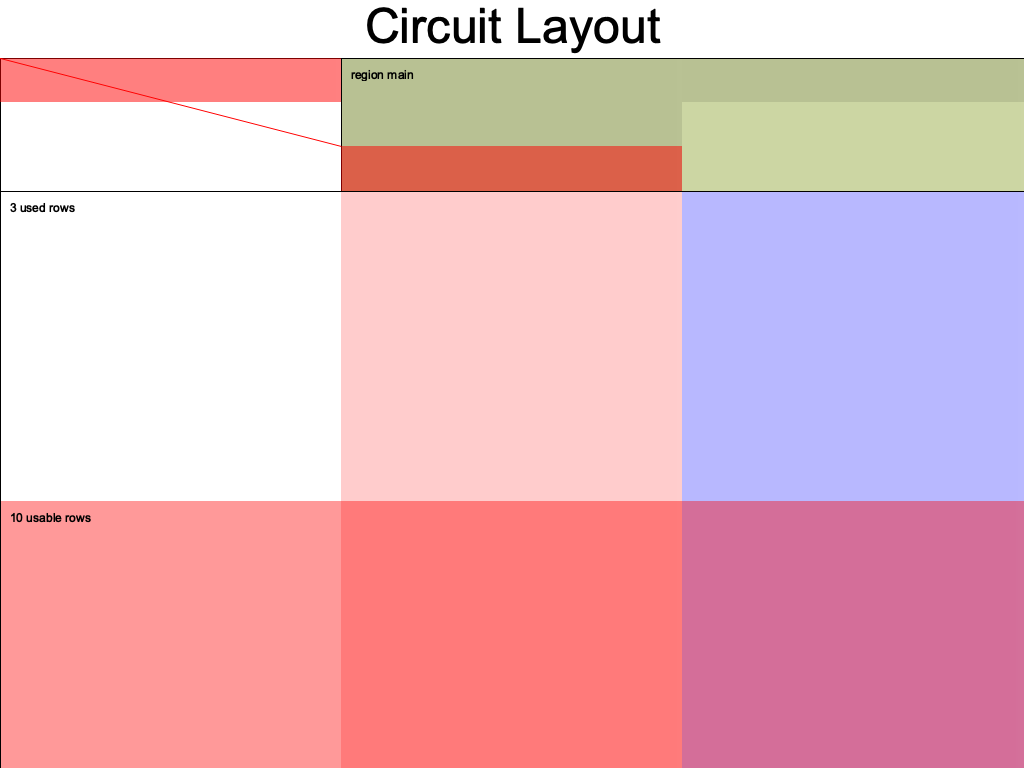
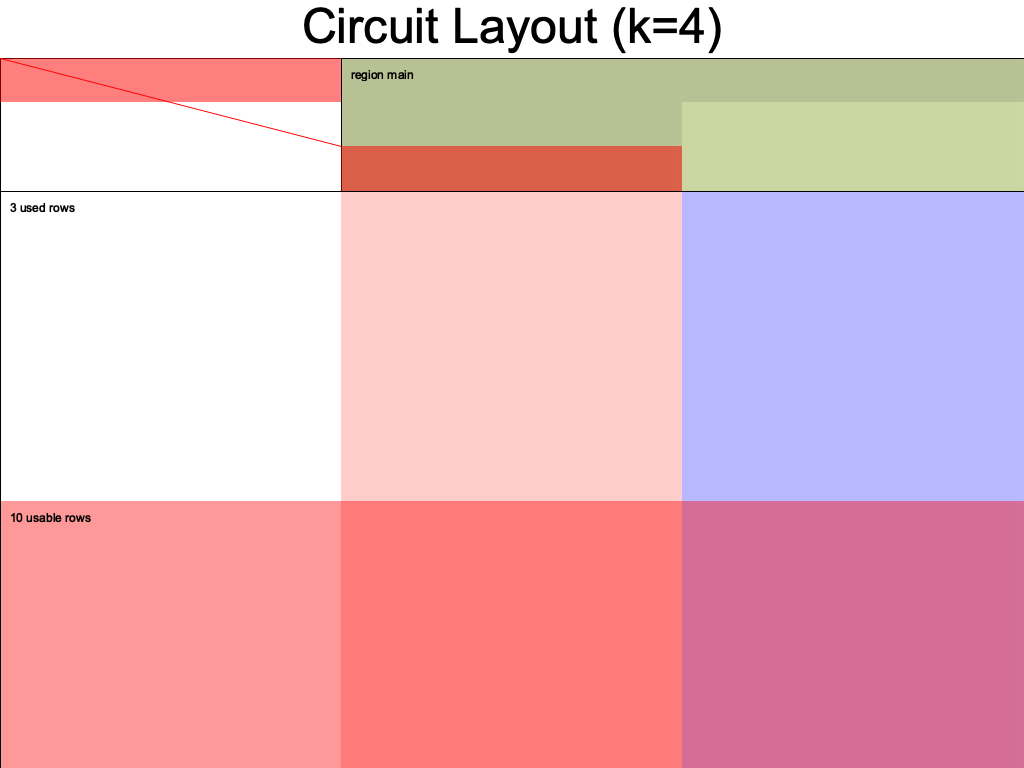
Auto derive value of k

Changed region(s): [[0.2812, 0.0, 0.7188, 0.0625]]

diff --git a/src/printer.rs b/src/printer.rs
@@ -3,6 +3,8 @@ use std::marker::PhantomData;
 use halo2_proofs::{arithmetic::Field, dev::CircuitLayout, plonk::Circuit};
 use plotters::prelude::*;
 
+use crate::utils::derive_k;
+
 pub struct Printer<'a, F: Field, ConcreteCircuit: Circuit<F>> {
     // main params
     _k: u32,
@@ -20,10 +22,10 @@ pub struct Printer<'a, F: Field, ConcreteCircuit: Circuit<F>> {
 }
 
 impl<'a, F: Field, ConcreteCircuit: Circuit<F>> Printer<'a, F, ConcreteCircuit> {
-    pub fn from(k: u32, circuit: &'a ConcreteCircuit) -> Self {
+    pub fn from(circuit: &'a ConcreteCircuit) -> Self {
         // let root = BitMapBackend::new("simple-example-layout.png", (1024, 768)).into_drawing_area();
         Self {
-            _k: k,
+            _k: derive_k::<F, ConcreteCircuit>(),
             _circuit: circuit,
             _layout: CircuitLayout::default()
                 .mark_equality_cells(true)
@@ -41,7 +43,12 @@ impl<'a, F: Field, ConcreteCircuit: Circuit<F>> Printer<'a, F, ConcreteCircuit> 
     pub fn print(self) {
         let root = BitMapBackend::new(self._path, self._dimensions).into_drawing_area();
         root.fill(&WHITE).unwrap();
-        let root = root.titled(self._title, ("sans-serif", 60)).unwrap();
+        let root = root
+            .titled(
+                format!("{} (k={})", self._title, self._k).as_str(),
+                ("sans-serif", 60),
+            )
+            .unwrap();
 
         self._layout.render(self._k, self._circuit, &root).unwrap();
     }
@@ -95,6 +102,6 @@ mod tests {
     #[test]
     fn it_works() {
         let circuit = MyCircuit::<Fr>::default();
-        Printer::from(4, &circuit).print();
+        Printer::from(&circuit).print();
     }
 }

diff --git a/src/real_prover.rs b/src/real_prover.rs
@@ -19,11 +19,13 @@ use std::{
     str::FromStr,
 };
 
+use crate::derive_k;
+
 #[derive(Clone)]
 pub struct RealProver<'a, ConcreteCircuit: Circuit<Fr>> {
     name: &'a str,
-    degree: u32,
     circuit: ConcreteCircuit,
+    degree: u32,
     dir_path: PathBuf,
     serde_format: SerdeFormat,
     rng: ChaCha20Rng,
@@ -34,11 +36,11 @@ pub struct RealProver<'a, ConcreteCircuit: Circuit<Fr>> {
 }
 
 impl<'a, ConcreteCircuit: Circuit<Fr>> RealProver<'a, ConcreteCircuit> {
-    pub fn init(name: &'a str, degree: u32, circuit: ConcreteCircuit) -> Self {
+    pub fn init(name: &'a str, circuit: ConcreteCircuit) -> Self {
         Self {
             name,
-            degree,
             circuit,
+            degree: derive_k::<Fr, ConcreteCircuit>(),
             dir_path: PathBuf::from_str("./out").unwrap(),
             serde_format: SerdeFormat::RawBytes,
             rng: ChaChaRng::seed_from_u64(2),
@@ -87,6 +89,11 @@ impl<'a, ConcreteCircuit: Circuit<Fr>> RealProver<'a, ConcreteCircuit> {
             file.write(proof.as_slice())?;
         }
         Ok(proof)
+    }
+
+    pub fn degree(mut self, k: u32) -> Self {
+        self.degree = k;
+        self
     }
 
     fn set_general_params(
@@ -256,7 +263,7 @@ mod tests {
     #[test]
     fn it_works() {
         let circuit = MyCircuit::<Fr>::default();
-        let prover = RealProver::init("MyCircuit", 4, circuit);
+        let prover = RealProver::init("MyCircuit", circuit).degree(4);
         prover.run(vec![vec![Fr::from(0)]], true).unwrap();
     }
 }

diff --git a/src/utils.rs b/src/utils.rs
@@ -1,0 +1,15 @@
+use halo2_proofs::{
+    arithmetic::Field,
+    plonk::{Circuit, ConstraintSystem},
+};
+
+pub fn derive_k<F, ConcreteCircuit>() -> u32
+where
+    F: Field,
+    ConcreteCircuit: Circuit<F>,
+{
+    let mut cs = ConstraintSystem::<F>::default();
+    ConcreteCircuit::configure(&mut cs);
+    let rows: u32 = cs.minimum_rows().try_into().unwrap();
+    rows.ilog2() + 1
+}

diff --git a/src/lib.rs b/src/lib.rs
@@ -1,5 +1,8 @@
 mod example_circuit;
 
+mod utils;
+pub use utils::*;
+
 pub mod printer;
 pub use printer::Printer;
 
